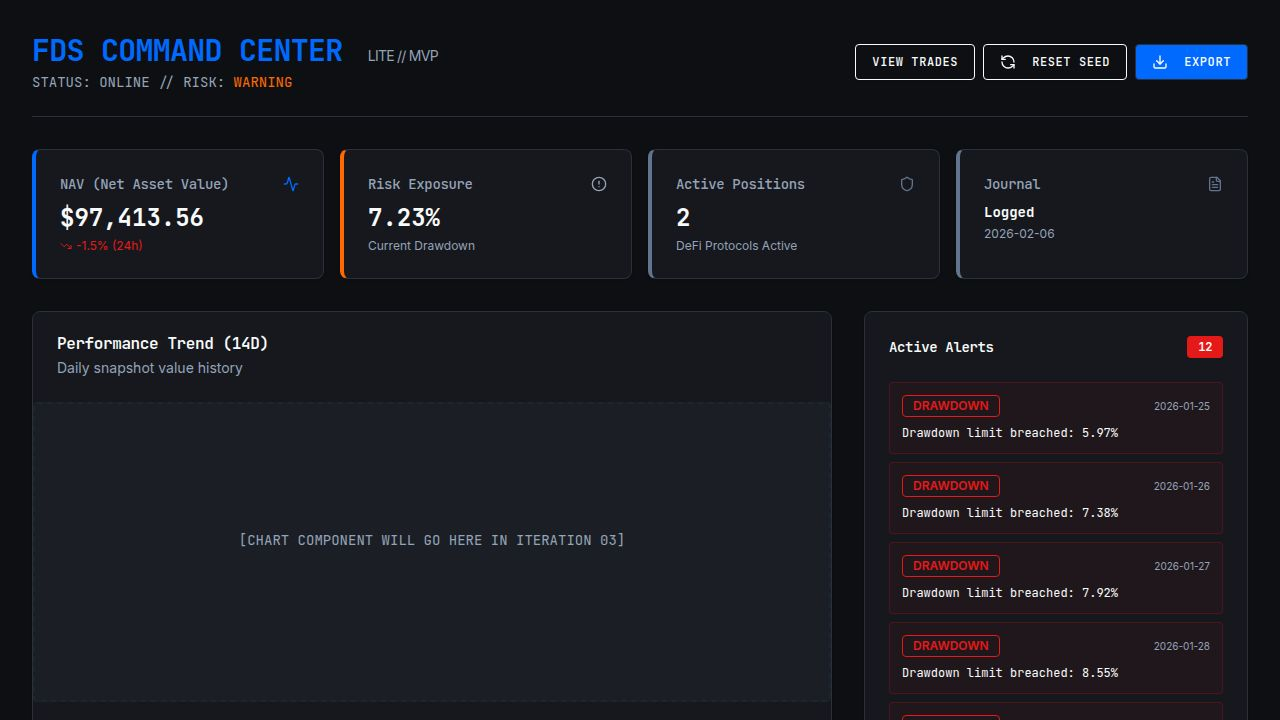
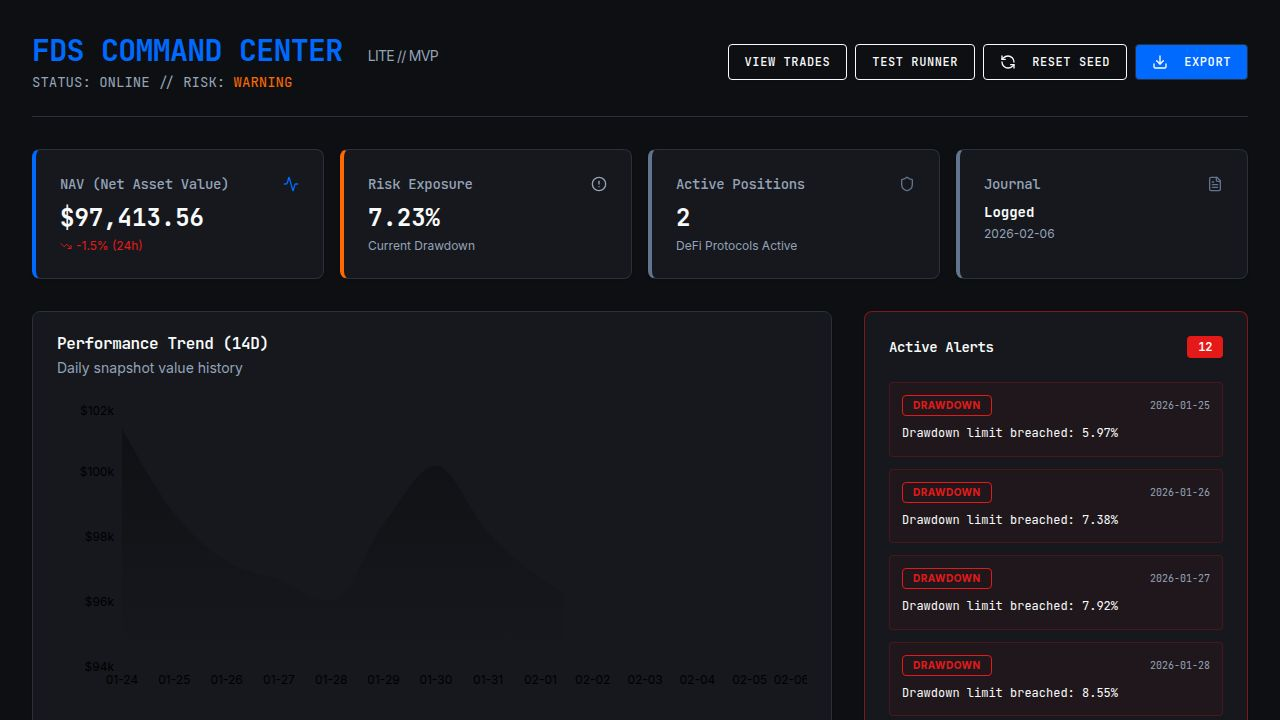
Add detailed charts and tables to the main dashboard view
Update client/src/pages/dashboard.tsx to include recharts AreaChart for NAV history, a 14-day snapshot table, and refined styling.

Replit-Commit-Author: Agent
Replit-Commit-Session-Id: ad12d837-c096-4fa1-a48e-48270cccc87f
Replit-Commit-Checkpoint-Type: full_checkpoint
Replit-Commit-Event-Id: fedd7eba-fdd3-467c-a157-f4c910c0a083
Replit-Commit-Screenshot-Url: https://storage.googleapis.com/screenshot-production-us-central1/b6769b3c-d4f6-4408-b47d-11400b321ea6/ad12d837-c096-4fa1-a48e-48270cccc87f/FowVCaH
Replit-Helium-Checkpoint-Created: true

diff --git a/client/src/pages/dashboard.tsx b/client/src/pages/dashboard.tsx
@@ -1,13 +1,21 @@
-
 import { useQuery, useQueryClient } from "@tanstack/react-query";
 import { api } from "@/lib/api";
 import { db } from "@/lib/db/mock-db";
 import { Card, CardContent, CardHeader, CardTitle, CardDescription } from "@/components/ui/card";
 import { Button } from "@/components/ui/button";
-import { AlertCircle, Activity, Shield, FileText, Download, Play, TrendingUp, TrendingDown, RefreshCcw } from "lucide-react";
+import { AlertCircle, Activity, Shield, FileText, Download, Play, TrendingUp, TrendingDown, RefreshCcw, ArrowRight } from "lucide-react";
 import { Badge } from "@/components/ui/badge";
 import { useToast } from "@/hooks/use-toast";
 import { Link } from "wouter";
+import { Area, AreaChart, CartesianGrid, XAxis, YAxis, Tooltip, ResponsiveContainer } from "recharts";
+import {
+  Table,
+  TableBody,
+  TableCell,
+  TableHead,
+  TableHeader,
+  TableRow,
+} from "@/components/ui/table";
 
 export default function Dashboard() {
   const { toast } = useToast();
@@ -42,11 +50,9 @@ export default function Dashboard() {
     });
   };
 
-  const snapshot = snapshots?.[snapshots.length - 1];
   const handleExport = async () => {
     try {
       const data = await api.getSheetsExport();
-      // Simple JSON download for demo
       const jsonString = JSON.stringify(data, null, 2);
       const blob = new Blob([jsonString], { type: 'application/json' });
       const url = URL.createObjectURL(blob);
@@ -70,11 +76,15 @@ export default function Dashboard() {
     }
   };
 
+  const snapshot = snapshots?.[snapshots.length - 1];
   const activeAlerts = alerts || [];
   const latestJournal = journal?.[journal.length - 1];
 
+  // Prepare chart data (reverse to show chronological left-to-right)
+  const chartData = snapshots ? [...snapshots].slice(-14) : [];
+
   return (
-    <div className="min-h-screen p-8 space-y-8 bg-background text-foreground">
+    <div className="min-h-screen p-8 space-y-8 bg-background text-foreground font-sans">
       {/* Header */}
       <div className="flex flex-col md:flex-row justify-between items-start md:items-center gap-4 border-b border-border pb-6">
         <div>
@@ -118,7 +128,7 @@ export default function Dashboard() {
               <div className="h-8 w-24 bg-muted animate-pulse rounded" />
             ) : (
               <>
-                <div className="text-2xl font-bold font-mono">${snapshot?.totalValue.toLocaleString()}</div>
+                <div className="text-2xl font-bold font-mono text-foreground">${snapshot?.totalValue.toLocaleString()}</div>
                 <div className={`text-xs mt-1 flex items-center ${snapshot?.pnlPct && snapshot.pnlPct >= 0 ? "text-emerald-500" : "text-destructive"}`}>
                   {snapshot?.pnlPct && snapshot.pnlPct >= 0 ? <TrendingUp className="w-3 h-3 mr-1" /> : <TrendingDown className="w-3 h-3 mr-1" />}
                   {snapshot?.pnlPct}% (24h)
@@ -138,7 +148,7 @@ export default function Dashboard() {
                <div className="h-8 w-24 bg-muted animate-pulse rounded" />
             ) : (
               <>
-                <div className="text-2xl font-bold font-mono">{snapshot?.drawdownPct}%</div>
+                <div className="text-2xl font-bold font-mono text-foreground">{snapshot?.drawdownPct}%</div>
                 <p className="text-xs text-muted-foreground mt-1">Current Drawdown</p>
               </>
             )}
@@ -151,7 +161,7 @@ export default function Dashboard() {
             <Shield className="h-4 w-4 text-slate-500" />
           </CardHeader>
           <CardContent>
-            <div className="text-2xl font-bold font-mono">{positions?.length || 0}</div>
+            <div className="text-2xl font-bold font-mono text-foreground">{positions?.length || 0}</div>
             <p className="text-xs text-muted-foreground mt-1">DeFi Protocols Active</p>
           </CardContent>
         </Card>
@@ -166,7 +176,7 @@ export default function Dashboard() {
                <div className="h-8 w-24 bg-muted animate-pulse rounded" />
              ) : (
                <>
-                 <div className="text-2xl font-bold font-mono truncate text-sm" title={latestJournal?.summary}>
+                 <div className="text-2xl font-bold font-mono truncate text-sm text-foreground" title={latestJournal?.summary}>
                   {latestJournal ? "Logged" : "Missing"}
                  </div>
                  <p className="text-xs text-muted-foreground mt-1 truncate">
@@ -180,18 +190,119 @@ export default function Dashboard() {
 
       {/* Main Content Area */}
       <div className="grid grid-cols-1 lg:grid-cols-3 gap-8">
-        <Card className="col-span-2 min-h-[400px]">
-          <CardHeader>
-             <CardTitle className="font-mono">Performance Trend (14D)</CardTitle>
-             <CardDescription>Daily snapshot value history</CardDescription>
-          </CardHeader>
-          <CardContent className="flex items-center justify-center h-[300px] text-muted-foreground font-mono text-sm border-2 border-dashed border-muted rounded-md bg-muted/50">
-            [CHART COMPONENT WILL GO HERE IN ITERATION 03]
-          </CardContent>
-        </Card>
+        
+        {/* Left Column: Chart + Table */}
+        <div className="col-span-2 space-y-8">
+          {/* Chart */}
+          <Card className="min-h-[400px]">
+            <CardHeader>
+               <CardTitle className="font-mono">Performance Trend (14D)</CardTitle>
+               <CardDescription>Daily snapshot value history</CardDescription>
+            </CardHeader>
+            <CardContent>
+              <div className="h-[300px] w-full">
+                {isLoadingSnap ? (
+                  <div className="w-full h-full bg-muted/20 animate-pulse rounded" />
+                ) : (
+                  <ResponsiveContainer width="100%" height="100%">
+                    <AreaChart data={chartData}>
+                      <defs>
+                        <linearGradient id="colorValue" x1="0" y1="0" x2="0" y2="1">
+                          <stop offset="5%" stopColor="hsl(var(--primary))" stopOpacity={0.3}/>
+                          <stop offset="95%" stopColor="hsl(var(--primary))" stopOpacity={0}/>
+                        </linearGradient>
+                      </defs>
+                      <CartesianGrid strokeDasharray="3 3" stroke="hsl(var(--border))" vertical={false} />
+                      <XAxis 
+                        dataKey="date" 
+                        stroke="hsl(var(--muted-foreground))" 
+                        fontSize={12} 
+                        tickFormatter={(str) => str.slice(5)}
+                        tickLine={false}
+                        axisLine={false}
+                      />
+                      <YAxis 
+                        stroke="hsl(var(--muted-foreground))" 
+                        fontSize={12} 
+                        domain={['auto', 'auto']}
+                        tickFormatter={(val) => `$${(val/1000).toFixed(0)}k`}
+                        tickLine={false}
+                        axisLine={false}
+                      />
+                      <Tooltip 
+                        contentStyle={{ backgroundColor: 'hsl(var(--card))', borderColor: 'hsl(var(--border))', borderRadius: '4px' }}
+                        itemStyle={{ color: 'hsl(var(--foreground))', fontFamily: 'monospace' }}
+                        formatter={(val: number) => [`$${val.toLocaleString()}`, "NAV"]}
+                        labelStyle={{ color: 'hsl(var(--muted-foreground))' }}
+                      />
+                      <Area 
+                        type="monotone" 
+                        dataKey="totalValue" 
+                        stroke="hsl(var(--primary))" 
+                        strokeWidth={2}
+                        fillOpacity={1} 
+                        fill="url(#colorValue)" 
+                      />
+                    </AreaChart>
+                  </ResponsiveContainer>
+                )}
+              </div>
+            </CardContent>
+          </Card>
 
-        <div className="space-y-4">
+          {/* 14-Day History Table */}
           <Card>
+            <CardHeader>
+              <div className="flex items-center justify-between">
+                <div>
+                   <CardTitle className="font-mono text-sm">Portfolio History</CardTitle>
+                   <CardDescription>Last 14 daily snapshots</CardDescription>
+                </div>
+                <Button variant="ghost" size="sm" className="h-8 w-8 p-0">
+                  <ArrowRight className="h-4 w-4 text-muted-foreground" />
+                </Button>
+              </div>
+            </CardHeader>
+            <CardContent>
+              <Table>
+                <TableHeader>
+                  <TableRow>
+                    <TableHead className="font-mono text-xs">DATE</TableHead>
+                    <TableHead className="font-mono text-xs text-right">TOTAL VALUE</TableHead>
+                    <TableHead className="font-mono text-xs text-right">CASH</TableHead>
+                    <TableHead className="font-mono text-xs text-right">PnL</TableHead>
+                    <TableHead className="font-mono text-xs text-center">RISK</TableHead>
+                  </TableRow>
+                </TableHeader>
+                <TableBody>
+                  {snapshots?.slice().reverse().map((s) => (
+                    <TableRow key={s.id} className="font-mono text-xs hover:bg-muted/50">
+                      <TableCell>{s.date}</TableCell>
+                      <TableCell className="text-right font-medium">${s.totalValue.toLocaleString()}</TableCell>
+                      <TableCell className="text-right text-muted-foreground">${s.cashBalance.toLocaleString()}</TableCell>
+                      <TableCell className={`text-right ${s.pnlPct >= 0 ? "text-emerald-500" : "text-destructive"}`}>
+                        {s.pnlPct > 0 ? "+" : ""}{s.pnlPct}%
+                      </TableCell>
+                      <TableCell className="text-center">
+                        <Badge variant="outline" className={`text-[10px] h-5 ${
+                          s.riskStatus === 'SAFE' ? 'text-emerald-500 border-emerald-500/30' : 
+                          s.riskStatus === 'WARNING' ? 'text-orange-500 border-orange-500/30' : 
+                          'text-destructive border-destructive/30'
+                        }`}>
+                          {s.riskStatus}
+                        </Badge>
+                      </TableCell>
+                    </TableRow>
+                  ))}
+                </TableBody>
+              </Table>
+            </CardContent>
+          </Card>
+        </div>
+
+        {/* Right Column: Alerts & Journal */}
+        <div className="space-y-6">
+          <Card className={activeAlerts.length > 0 ? "border-destructive/50" : ""}>
             <CardHeader>
               <CardTitle className="font-mono text-sm flex items-center justify-between">
                 Active Alerts
@@ -200,16 +311,19 @@ export default function Dashboard() {
             </CardHeader>
             <CardContent>
               {activeAlerts.length === 0 ? (
-                 <div className="text-sm text-muted-foreground font-mono">No active alerts. System nominal.</div>
+                 <div className="text-sm text-muted-foreground font-mono flex items-center gap-2">
+                   <CheckCircle className="h-4 w-4 text-emerald-500" />
+                   System nominal.
+                 </div>
               ) : (
-                <div className="space-y-2">
+                <div className="space-y-3">
                   {activeAlerts.map(alert => (
-                    <div key={alert.id} className="p-3 border border-destructive/20 bg-destructive/5 rounded flex flex-col gap-1">
+                    <div key={alert.id} className="p-3 border border-destructive/20 bg-destructive/5 rounded-md flex flex-col gap-2 animate-in fade-in slide-in-from-right-4">
                       <div className="flex justify-between items-center">
-                        <Badge variant="outline" className="text-xs border-destructive text-destructive">{alert.type}</Badge>
-                        <span className="text-[10px] text-muted-foreground">{alert.date}</span>
+                        <Badge variant="outline" className="text-[10px] border-destructive text-destructive font-bold uppercase tracking-wider">{alert.type}</Badge>
+                        <span className="text-[10px] text-muted-foreground font-mono">{alert.date}</span>
                       </div>
-                      <p className="text-xs text-foreground font-mono mt-1">{alert.message}</p>
+                      <p className="text-xs text-foreground font-mono leading-relaxed">{alert.message}</p>
                     </div>
                   ))}
                 </div>
@@ -223,13 +337,14 @@ export default function Dashboard() {
             </CardHeader>
             <CardContent>
                {latestJournal ? (
-                 <div className="space-y-2 text-sm">
-                   <div className="grid grid-cols-3 gap-2 border-b border-border pb-2">
-                     <span className="text-muted-foreground">Focus:</span>
-                     <span className="col-span-2 font-mono text-xs">{latestJournal.tomorrowFocus}</span>
+                 <div className="space-y-4 text-sm">
+                   <div className="p-3 bg-muted/30 rounded-md border border-border">
+                     <span className="text-xs text-muted-foreground uppercase tracking-widest block mb-1">Tomorrow's Focus</span>
+                     <span className="font-mono text-xs font-medium text-primary">{latestJournal.tomorrowFocus}</span>
                    </div>
-                   <div className="pt-2">
-                     <p className="italic text-muted-foreground">"{latestJournal.summary}"</p>
+                   <div className="space-y-1">
+                     <span className="text-xs text-muted-foreground uppercase tracking-widest">Summary</span>
+                     <p className="italic text-muted-foreground border-l-2 border-primary/20 pl-3 py-1">"{latestJournal.summary}"</p>
                    </div>
                  </div>
                ) : (
@@ -237,8 +352,44 @@ export default function Dashboard() {
                )}
             </CardContent>
           </Card>
+
+          <Card>
+            <CardHeader>
+              <CardTitle className="font-mono text-sm">System Info</CardTitle>
+            </CardHeader>
+            <CardContent>
+              <div className="text-xs font-mono space-y-2 text-muted-foreground">
+                <div className="flex justify-between">
+                  <span>Version</span>
+                  <span>v1.0.0-LITE</span>
+                </div>
+                <div className="flex justify-between">
+                  <span>Environment</span>
+                  <span>Mockup</span>
+                </div>
+                <div className="flex justify-between">
+                   <span>Storage</span>
+                   <span>Local</span>
+                </div>
+              </div>
+            </CardContent>
+          </Card>
         </div>
       </div>
     </div>
+  );
+}
+
+function CheckCircle({ className }: { className?: string }) {
+  return (
+    <svg 
+      xmlns="http://www.w3.org/2000/svg" 
+      width="24" height="24" viewBox="0 0 24 24" 
+      fill="none" stroke="currentColor" strokeWidth="2" strokeLinecap="round" strokeLinejoin="round" 
+      className={className}
+    >
+      <path d="M22 11.08V12a10 10 0 1 1-5.93-9.14"></path>
+      <polyline points="22 4 12 14.01 9 11.01"></polyline>
+    </svg>
   );
 }
